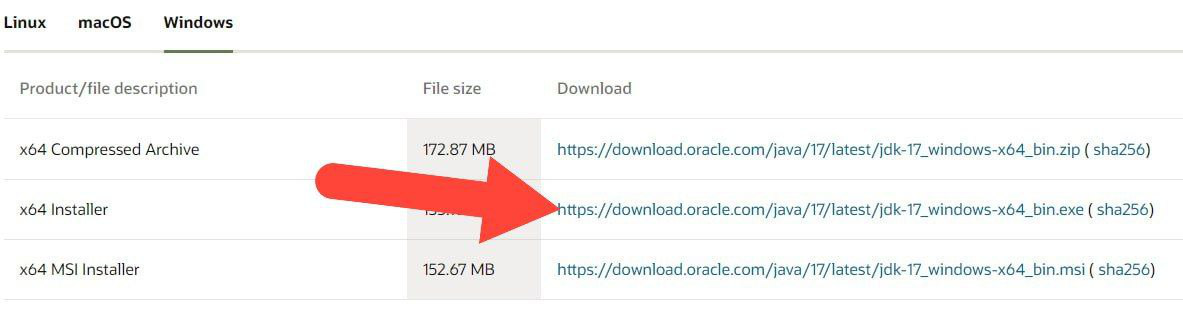
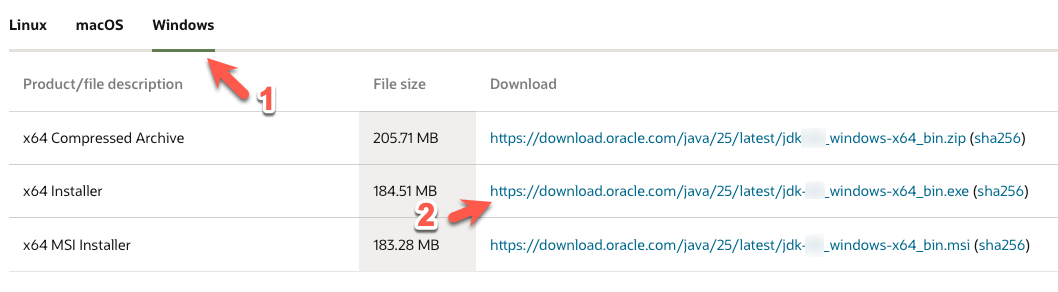
Update Java version to 25

diff --git a/tutorials/javaInstallationWindows.md b/tutorials/javaInstallationWindows.md
@@ -1,4 +1,4 @@
-{% set title="Java 17 Installation Guide for Windows Users" %}
+{% set title="Java " + java_version + " Installation Guide for Windows Users" %}
 <frontmatter>
 title: "{{ title }}"
 pageNav: 2
@@ -6,13 +6,13 @@ pageNav: 2
 
 # {{ title }}
 
-This guide explains how to install the **==[Oracle Java 17 {{ jdk_popover }}](https://www.oracle.com/java/technologies/downloads/#java17)== on Windows**.
+This guide explains how to install the **==[Oracle Java {{ java_version}} {{ jdk_popover }}](https://www.oracle.com/java/technologies/downloads/#java{{ java_version }})== on Windows**.
 
 ## Installation
 
 * **Download JDK** {{ step_numbers }}
-   * Go to the Oracle download site [here](https://www.oracle.com/java/technologies/downloads/#java17).{{ abcd_numbers }}
-   * Choose **JDK 17** &rarr; **Windows**.
+   * Go to the Oracle download site [here](https://www.oracle.com/java/technologies/downloads/#java{{ java_version }}).{{ abcd_numbers }}
+   * Choose **JDK {{ java_version }}** &rarr; **Windows**.
    * Download the **x64 Installer**:
    <pic src="images/javaInstallationWindows/java_installer_windows.png" width="800">
    
@@ -20,16 +20,16 @@ This guide explains how to install the **==[Oracle Java 17 {{ jdk_popover }}](ht
 
    Go ahead and sign in if you are prompted by Oracle, or register an account if you haven't done so.
 
-   **Alternatively, you may also download the JDK 17 x64 installer from another provider** that does not require you to sign up. Examples:
+   **Alternatively, you may also download the JDK {{ java_version}} x64 installer from another provider** that does not require you to sign up. Examples:
 
-   * [**Amazon**](https://docs.aws.amazon.com/corretto/latest/corretto-17-ug/downloads-list.html)<br>
+   * [**Amazon**](https://docs.aws.amazon.com/corretto/latest/corretto-{{ java_version }}-ug/downloads-list.html)<br>
    * [**Microsoft**](https://learn.microsoft.com/en-my/java/openjdk/download)<br>
-   * [**Temurin**](https://adoptium.net/temurin/releases/?version=17)<br>
+   * [**Temurin**](https://adoptium.net/temurin/releases/?version={{ java_version }})<br>
    </box>
 
 * **Install JDK**
    * Run the downloaded installer and follow the instructions to complete the installation. {{ abcd_numbers }}
-   * Suppose the JDK was installed in the directory `C:\Program Files\Java\jdk-17` (this is the default location for **Oracle**, please check the installation directory within the installer for other distributors).
+   * Suppose the JDK was installed in the directory `C:\Program Files\Java\jdk-{{ java_version }}` (this is the default location for **Oracle**, please check the installation directory within the installer for other distributors).
    <br>
    <br>
 
@@ -55,7 +55,7 @@ This guide explains how to install the **==[Oracle Java 17 {{ jdk_popover }}](ht
    1. Scroll through the "System variables" section to find the `Path` variable, select it and click `Edit`.<br>
      <img src="images/javaInstallationWindows/edit_path_button.png" style="padding: 10px;">
    1. In the `Edit Environment Variable` window, you will see a list of paths. These paths represent directories your system searches to find executables like Java.
-      * To prioritize a different Java version: Find the path to your desired Java installation (e.g., `C:\Program Files\Java\jdk-17\bin`) and move it to the top of the list.<br>
+      * To prioritize a different Java version: Find the path to your desired Java installation (e.g., `C:\Program Files\Java\jdk-{{ java_version }}\bin`) and move it to the top of the list.<br>
         <img src="images/javaInstallationWindows/move_path_button.png" style="padding: 10px;">
       * To add a new Java version: Click "New" and add the path to the bin folder of the Java version you want to use (e.g., `C:\Program Files\Java\jdk-11\bin`).<br>
         <img src="images/javaInstallationWindows/new_path_button.png" style="padding: 10px;">

diff --git a/tutorials/javaInstallationMac.md b/tutorials/javaInstallationMac.md
@@ -1,4 +1,4 @@
-{% set title="Java 17 Installation Guide for Mac Users" %}
+{% set title="Java " + java_version + " Installation Guide for Mac Users" %}
 <frontmatter>
   title: "{{ title }}"
   pageNav: 2
@@ -6,7 +6,7 @@
 
 # {{ title }}
 
-This guide explains how to install the {{ jdk_popover}} (specifically, **==[Java 17 JDK+FX Azul distribution](https://www.azul.com/downloads/?version=java-17-lts&os=macos&package=jdk-fx#zulu)==) on macOS using SDKMAN**.
+This guide explains how to install the {{ jdk_popover}} (specifically, **==[Java {{ java_version }} JDK+FX Azul distribution](https://www.azul.com/downloads/?version=java-{{ java_version }}-lts&os=macos&package=jdk-fx#zulu)==) on macOS using SDKMAN**.
 
 **Why this specific version of JDK?**
 
@@ -32,13 +32,13 @@ This guide explains how to install the {{ jdk_popover}} (specifically, **==[Java
      sdk version
      ```
 * **Install JDK using SDKMAN**
-   * Install the Java 17 JDK FX version (codename Zulu) by running:{{ abcd_numbers }}
+   * Install the Java {{ java_version}} JDK FX version (codename Zulu) by running:{{ abcd_numbers }}
      ```bash
-     sdk install java 17.0.14.fx-zulu
+     sdk install java {{ java_version_mac }}
      ```
    * This version should be automatically set as the default, but if it is not, set it as the default by running:
      ```bash
-     sdk default java 17.0.14.fx-zulu
+     sdk default java {{ java_version_mac }}
      ```
    <box type="tip" seamless>
 
@@ -46,7 +46,7 @@ This guide explains how to install the {{ jdk_popover}} (specifically, **==[Java
      Remedy: Run the `sdk flush` command to purge the previous incomplete installation.
    </box>
 
-* **Verify installation** by running the following command. You should see the version information for Java 17.0.14.fx-zulu.
+* **Verify installation** by running the following command. You should see the version information for Java {{ java_version_mac }}.
    ```bash
    java -version
    ```

diff --git a/tutorials/javaInstallationLinux.md b/tutorials/javaInstallationLinux.md
@@ -1,4 +1,4 @@
-{% set title="Java 17 Installation Guide for Linux Users" %}
+{% set title="Java " + java_version + " Installation Guide for Linux Users" %}
 <frontmatter>
   title: "{{ title }}"
   pageNav: 2
@@ -6,7 +6,7 @@
 
 # {{ title }}
 
-This guide explains how to install the {{ jdk_popover }} (specifically, **==[OpenJDK Java 17](https://openjdk-sources.osci.io/openjdk17/)==**) on Linux using the command line. This guide was created using Ubuntu 22.04 but the steps for other Debian based Linux distros should be similar.
+This guide explains how to install the {{ jdk_popover }} (specifically, **==[OpenJDK Java {{ java_version }}](https://openjdk-sources.osci.io/openjdk{{ java_version }}/)==**) on Linux using the command line. This guide was created using Ubuntu 22.04 but the steps for other Debian based Linux distros should be similar.
 This guide assumes you have superuser access.
 
 
@@ -19,9 +19,9 @@ This guide assumes you have superuser access.
      ```
      Enter your password if prompted.
 * **Install JDK**
-   * Install the Java 17 OpenJDK version by running:
+   * Install the Java {{ java_version}} OpenJDK version by running:
      ```bash
-     sudo apt install openjdk-17-jdk 
+     sudo apt install openjdk-{{ java_version }}-jdk
      ```
      Note that the default installation location is usually `/usr/lib/jvm/`.
 * **Verify Installation**

diff --git a/_markbind/variables.md b/_markbind/variables.md
@@ -53,6 +53,10 @@
 <variable name="bad"><span style="color: red"><md>**:fas-thumbs-down: Bad**</md></span></variable>
 <variable name="good"><span style="color: green"><md>**:fas-thumbs-up: Good**</md></span></variable>
 
+<variable name="java_version">25</variable>
+<variable name="java_version_mac">25.0.3.fx-zulu</variable>
+
+
 <variable name="step_numbers">\{texts="['1', '2', '3', '4', '5', '6', '7', '8', '9', '10']" t-class="badge rounded-pill bg-primary text-white m-1 pt-0 pb-0"\}</variable>
 <variable name="abcd_numbers">\{texts="['a)', 'b)', 'c)', 'd)', 'e)', 'f)', 'g)', 'h)']" \}</variable>
 <variable name="jdk_def">The **Java Development Kit (JDK)** is a software package that provides the tools needed to develop and run Java applications. It includes the Java compiler, Java Runtime Environment (JRE), and various development tools like `javac`, `java`, and `javadoc`.</variable>

diff --git a/tutorials/addingLocalAiToJavaApp.md b/tutorials/addingLocalAiToJavaApp.md
@@ -23,7 +23,7 @@
 ## Prerequisites
 
 * **Gradle-based Java Project:** A Java project set up with Gradle as the build tool. In this tutorial we assume you have a simple command-line Java application, but the concepts can be applied to any Java app.
-* **Java 17+** — verify with `java -version`.
+* **Java {{ java_version }}+** — verify with `java -version`.
 * **llama.cpp** installed on your system — the `llama-server` binary must be on your PATH or in a standard Homebrew location:
 
 <div class="indented-level2">
@@ -212,7 +212,7 @@ public String complete(String prompt, int maxTokens) throws Exception {
 
     HttpResponse<String> response = httpClient.send(request, HttpResponse.BodyHandlers.ofString());
     return parseContent(response.body());
-}
+}}
 ```
 
 ```java

diff --git a/tutorials/javaFxPart1.md b/tutorials/javaFxPart1.md
@@ -17,9 +17,9 @@ Let's get started!
 
 ## Setting up the project
 
-1. Ensure you are using JDK 17. **Mac users need to use [this precise distribution of the JDK 17](javaInstallationMac.html)** which comes bundled with JavaFX support.
+1. Ensure you are using JDK {{ java_version }}. **Mac users need to use [this precise distribution of the JDK {{ java_version }}](javaInstallationMac.html)** which comes bundled with JavaFX support.
 1. Fork [this starter repo](https://github.com/se-edu/javafx-tutorial), and clone it onto your computer.
-1. Open the project in your favorite code editor. If you are using an IDE, configure it to use the JDK 17 ([how to configure JDK in Intellij IDEA](https://www.jetbrains.com/help/idea/sdk.html#set-up-jdk)).
+1. Open the project in your favorite code editor. If you are using an IDE, configure it to use the JDK {{ java_version}} ([how to configure JDK in Intellij IDEA](https://www.jetbrains.com/help/idea/sdk.html#set-up-jdk)).
 
     <box type="tip" seamless>
 

diff --git a/tutorials/vscImportingGradleProject.md b/tutorials/vscImportingGradleProject.md
@@ -69,8 +69,8 @@ You may also need to verify and configure the Gradle Build Server to use the cor
     {
       "java.configuration.runtimes": [
         {
-          "name": "JavaSE-17",
-          "path": "/Library/Java/JavaVirtualMachines/zulu-17.jdk/Contents/Home"
+          "name": "JavaSE-{{ java_version }}",
+          "path": "/Library/Java/JavaVirtualMachines/zulu-{{ java_version }}.jdk/Contents/Home"
         }
       ],
       "java.import.gradle.java.home": "/Library/Java/JavaVirtualMachines/zulu-11.jdk/Contents/Home"